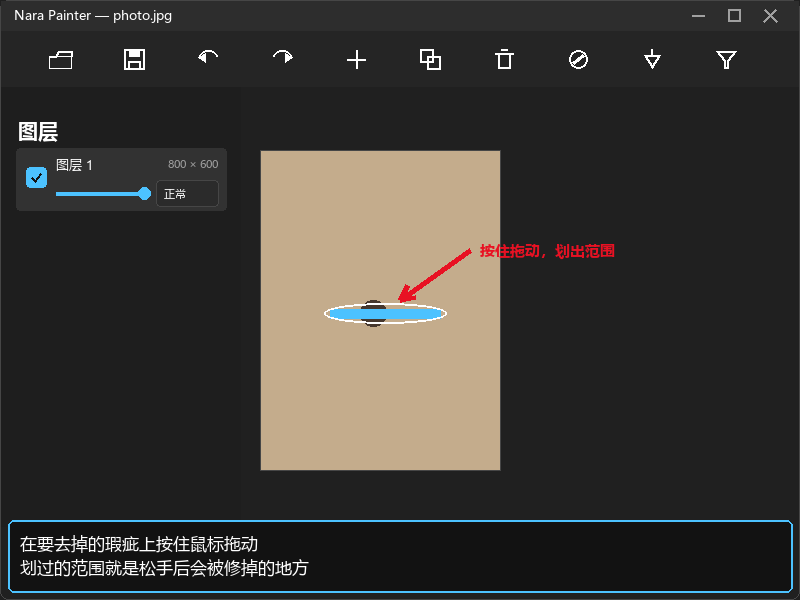
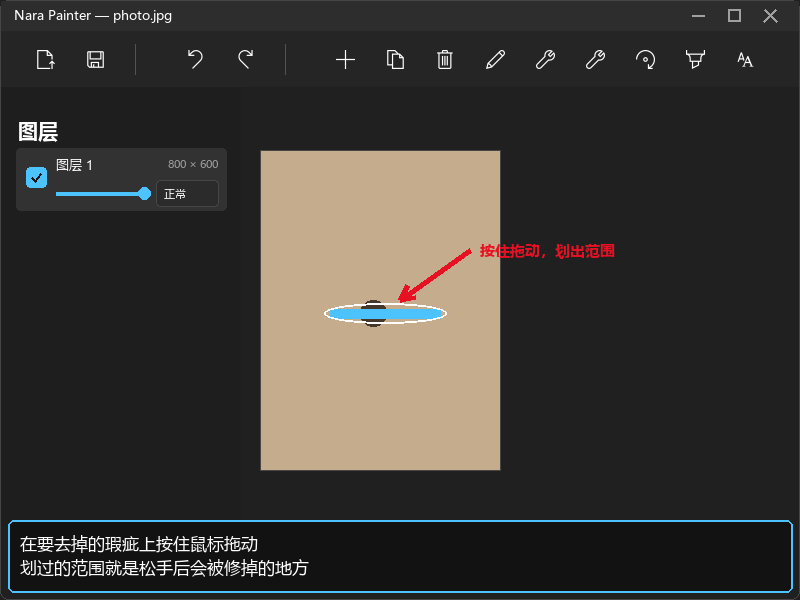
教程配图改用软件真实的图标，并修掉搜索框错位
真机对照发现教程里的工具栏图标和软件对不上，打开图片那张的搜索框文字也错位。

图标对不上的原因是我原来手画的近似图形。查下来 WinUI 的 Symbol 枚举就是
Segoe MDL2 Assets 字体，于是直接用 segmdl2.ttf 渲染应用真正使用的码位：

  OpenFile E8E5  Save E74E  Undo E7A7  Redo E7A6  Add E710  Copy E8C8
  Delete E74D  Edit E70F  Repair E90F  Rotate E7AD  Highlight E7E6
  Font E8D2  Filter E71C  ZoomIn/Zoom E8A3  ZoomOut E71F  Find E721

并按 XAML 里的真实顺序与分隔符排布，现在与真机截图逐一对得上。
图里凡是带快捷键的说明也跟着最新格式走，例如导出写成 Ctrl+S。

搜索框原来把「搜索」放在与放大镜同一个横坐标上，垂直基线也偏了。改为放大镜用
E721 绘制、占位文字左对齐并落在框的中线上，文件名只留在下面的列表里。

生成脚本 .tools/tutorialgen/make_images.py 是一次性工具，不进构建，只有产物进仓库。
设计师后续用同名文件覆盖即可，不需要改代码。

PROGRESS_v0.3.0.md 记下本轮全部工作：tooltip 的两条根因与取舍、教程关闭按钮、
配图的画法来源，以及真机回归发现的四个问题。

diff --git a/docs/PROGRESS_v0.3.0.md b/docs/PROGRESS_v0.3.0.md
@@ -75,6 +75,92 @@ NaraPainter.exe --selftest            ->  RESULT PASS, exit=0
 
 ## 本轮做了什么
 
+### 五、Tooltip 格式统一
+
+真机发现同一工具栏里格式不一致：「缩小画布」只有描述没有快捷键，「滤镜」只有
+`Ctrl+Shift+B, Ctrl+Shift+U` 没有描述。全面排查后定位到根因：
+
+**`Strings.cs` 里有三条硬编码的快捷键字面量，既没有描述、也不走本地化：**
+
+```csharp
+public static string ToolbarColorPickerHint => "I";                                  // 只有 "I"
+public static string ToolbarTransformHint  => "Ctrl+Shift+L / R / H / V, Ctrl+Alt+C, Ctrl+Shift+X";
+public static string ToolbarFiltersHint    => "Ctrl+Shift+B, Ctrl+Shift+U";          // 只有快捷键
+```
+
+它们绕过了 `Localization.Get`，所以既没有中英双语、也没有 `LocalizedStrings` 孪生属性。
+改成走资源后，`check-localization.ps1` 立刻报出缺三个孪生属性
+——**原来这个缺口是被硬编码掩盖的**。
+
+**统一后的格式**：有快捷键的写 `功能描述 (快捷键)`，多个键用 ` / ` 分隔；
+没有快捷键的只写描述。
+
+**逐区域改动**：
+
+| 区域 | 改动 |
+| --- | --- |
+| 工具栏 | 补上缺失的快捷键（缩小 `Ctrl+-`、放大 `Ctrl++`、适应窗口 `Ctrl+0`、100% `Ctrl+1`、蒙版画笔 `M`、复制 `Ctrl+J`）；滤镜与变换从"只有快捷键"改为描述+键；吸管从 `"I"` 改为"取画布上一点的颜色 (I)" |
+| 工具栏菜单项 | `Label()` 原来把快捷键直接接在文字后面（`模糊    Ctrl+Shift+B`），改为带括号，与 tooltip 同一形状 |
+| 属性面板 | 12 个纯文字按钮补上 tooltip（用各自按钮文字，都没有快捷键）；其中 2 个带 `IsEnabled` 的改为淡出，避免又落进"禁用就没有 tooltip"的坑 |
+| 状态栏 | 关于、语言、教程、复制颜色本就有 tooltip，核对格式一致 |
+
+**顺带修掉一个我引入的问题**：`PropertiesPanel.xaml` 被我的脚本写成了 **CRLF**，
+而其余 XAML 都是 LF。这导致按 `$` 锚定的正则完全匹配不到它——
+**守卫测试因此漏报了 2 个真实违规**。已把该文件规范回 LF。
+
+**新增 3 条守卫测试**（`HintFormatTests`）：
+
+- 禁止"只有快捷键没有描述"（就是用户看到的那个形状）
+- 提示里的快捷键必须写在括号内
+- 工具栏上有绑定的按钮必须在 tooltip 里写出该键
+
+三条都做了失败注入：把滤镜提示还原成 `Ctrl+Shift+B / Ctrl+Shift+U`、
+把吸管还原成裸 `"I"`，对应测试都准确报出是哪个键。
+
+### 四、真机回归发现的四个问题（本轮修）
+
+**问题 4（Tooltip 不显示）——根因是 WinUI 的设计，不是没挂上。**
+
+先用探针在真机上悬停并监听 UIA 树里的 ToolTip 元素，拿到确定结论：
+
+| 按钮 | 状态 | 悬停结果 |
+| --- | --- | --- |
+| 打开 / 导出 | 可用 | **显示** tooltip |
+| 撤销 / 重做 | **不可用** | **不显示** |
+
+**`ToolTipService` 在控件被禁用时不会打开 tooltip**——禁用的控件收不到指针消息，
+而 tooltip 由指针消息驱动。所以它只在常驻可用的按钮上生效，在每一个随文档状态变化的
+按钮上静默失效，看起来就是"时好时坏"。新文档里撤销/重做本来就是灰的，一悬停就没提示。
+
+中途查到一个 GitHub issue 说是"指针捕获后 tooltip 失效"，**那条是错的**：WinUI 团队
+以"不是 bug"关闭，报告人自己撤回了。**我一度按它去找 `CapturePointer` 的问题，白走一段。**
+
+试过并**否决**的做法：把按钮包一层 `Border` 加 tooltip——实测无效，UIA 里工具栏
+和改前完全一样；指针仍然落在被禁用的子控件上。（这一版进过构建又退回了。）
+
+最后做法：**这些按钮改为"淡出"而不是"禁用"**。控件保持 enabled，指针消息照常送达、
+tooltip 正常打开；用 `EnabledToOpacityConverter` 把不可用时的透明度降到 0.4，
+一眼仍能看出不可用。安全性逐个核对：`Undo`/`Redo` 在栈空时提前返回，`DeleteLayer` 判空返回，
+`UngroupSelectedFolder` 判类型返回，`Move` 越界返回，`GroupSelectedLayers` 无选中返回 null。
+**真机验证：连点两次撤销到无历史可撤，程序无异常。**
+
+**问题 2（教程没有退出按钮）**：底部加了「关闭」按钮，与上一步/下一步并排，
+走现有 `Tutorial_Close` 文案。真机验证：点它弹窗关闭。
+
+**问题 1、3（配图错）**：
+
+- **工具栏图标与软件不一致**：原来是我手画的近似图形。查下来 WinUI 的 `Symbol` 枚举
+  就是 **Segoe MDL2 Assets 字体**，于是直接用 `segmdl2.ttf` 渲染应用真正使用的码位
+  （OpenFile E8E5、Save E74E、Undo E7A7、Add E710、Copy E8C8、Delete E74D、Edit E70F、
+  Repair E90F、Rotate E7AD、Highlight E7E6、Font E8D2、Filter E71C、ZoomIn/Zoom E8A3、
+  ZoomOut E71F），并按 XAML 里的真实顺序与分隔符排布。**与真机截图逐一对上了。**
+- **搜索框文字错位**：原来把「搜索」放在了与放大镜同一横坐标、且垂直基线偏移。
+  改为放大镜用 E721 绘制、占位文字左对齐并落在框的中线上。
+
+**新增 5 条测试**：教程图片目录不得留步骤用不到的图；按钮不得同时带 tooltip 与 `IsEnabled`
+绑定（就是丢提示的那个形状）；不可用按钮必须走 `EnabledToOpacity`。后两条守卫都做过失败注入
+——**第一版正则在多行元素上完全匹配不到，注入 bug 后仍然全绿，改对之后才真正拦得住。**
+
 ### 一、Tooltip 覆盖补全
 
 先把「Tooltip 到底有没有挂上」查清楚。**写了一个临时探针**（`--tooltipprobe`，查完已删除）
